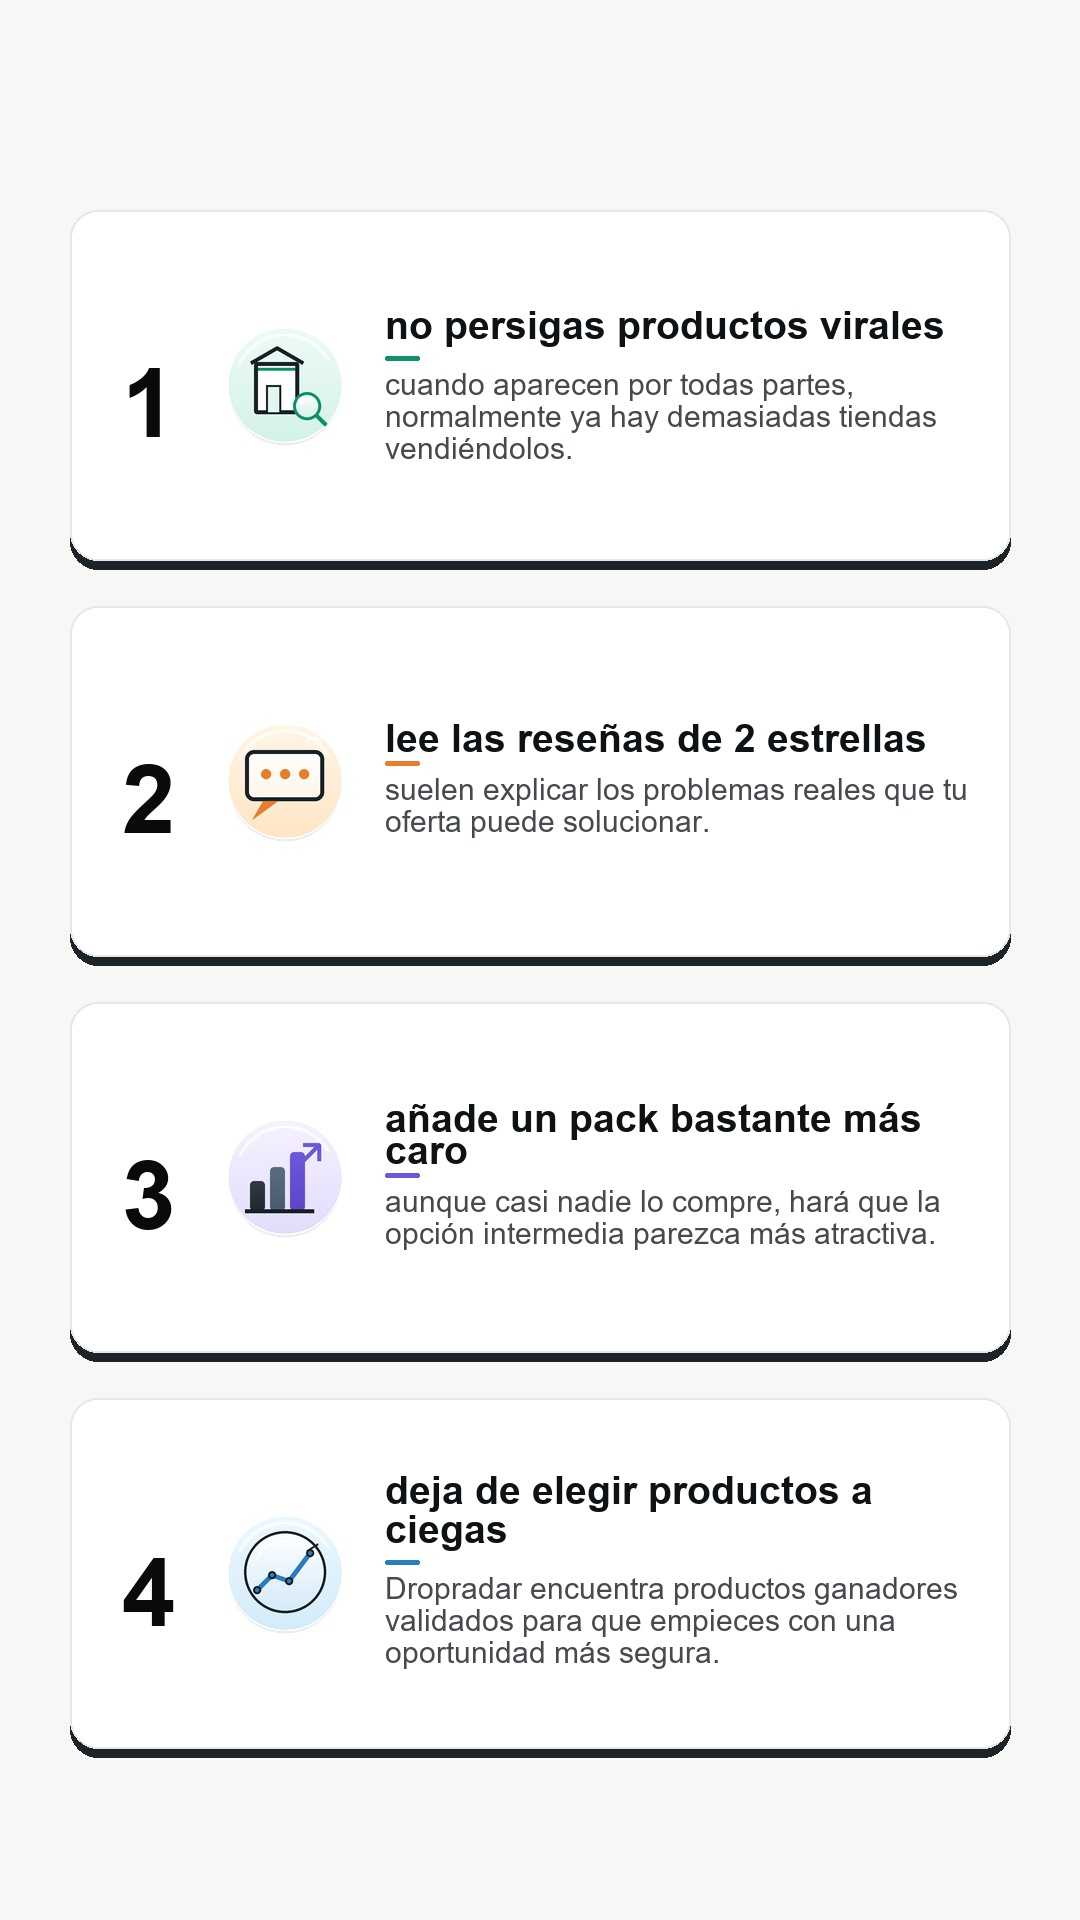
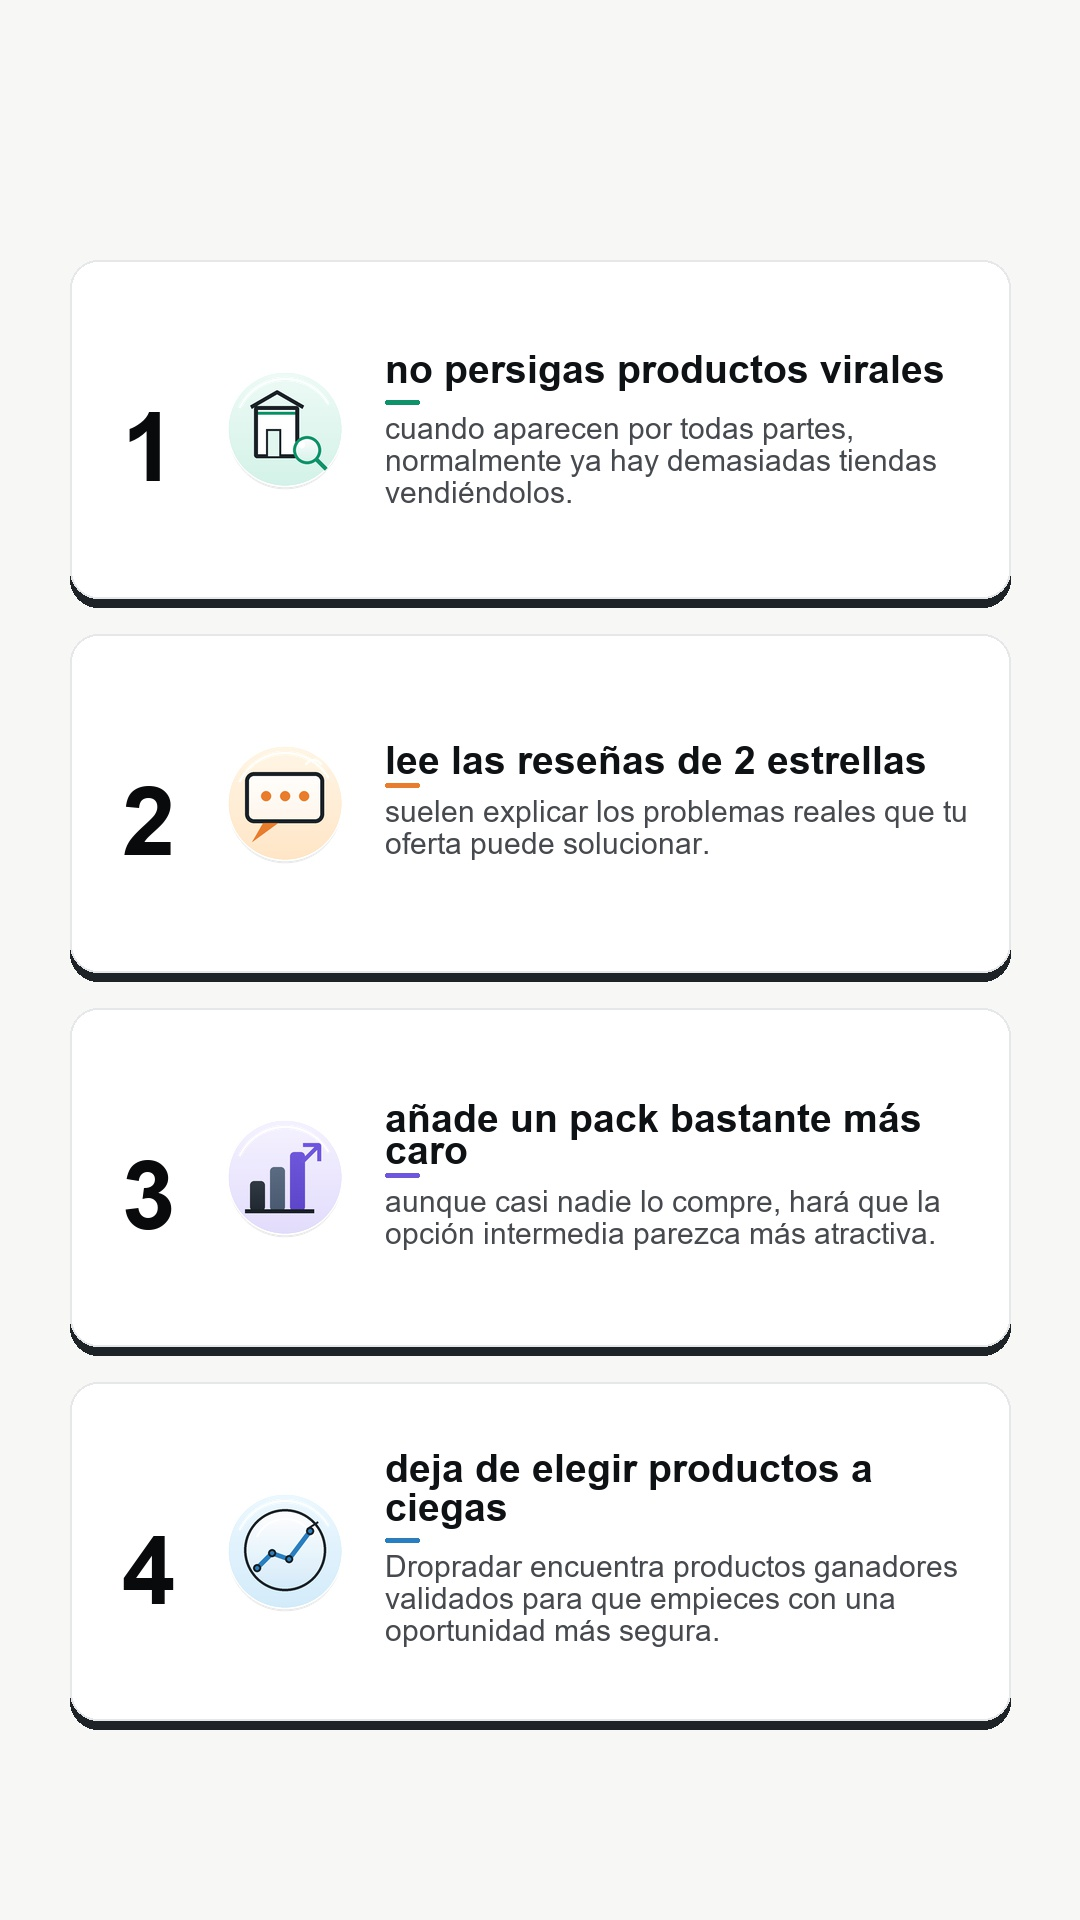
c

diff --git a/app/render.py b/app/render.py
@@ -141,9 +141,9 @@ ADVICE_FLAT_BLOCK_GAP = 60
 ADVICE_FLAT_LINE_GAP = 10
 ADVICE_FLAT_EMOJI_GAP = 12
 ADVICE_ILLUSTRATED_CARD_RADIUS = 28
-ADVICE_ILLUSTRATED_CARDS_TOP = 210
-ADVICE_ILLUSTRATED_CARDS_BOTTOM = 170
-ADVICE_ILLUSTRATED_CARD_GAP = 46
+ADVICE_ILLUSTRATED_CARDS_TOP = 260
+ADVICE_ILLUSTRATED_CARDS_BOTTOM = 200
+ADVICE_ILLUSTRATED_CARD_GAP = 36
 TEXT_CARD_FILL = (255, 255, 255, 246)
 TEXT_CARD_TEXT = (0, 0, 0)
 TEXT_FACE_AVOID_WEIGHT = 260.0
